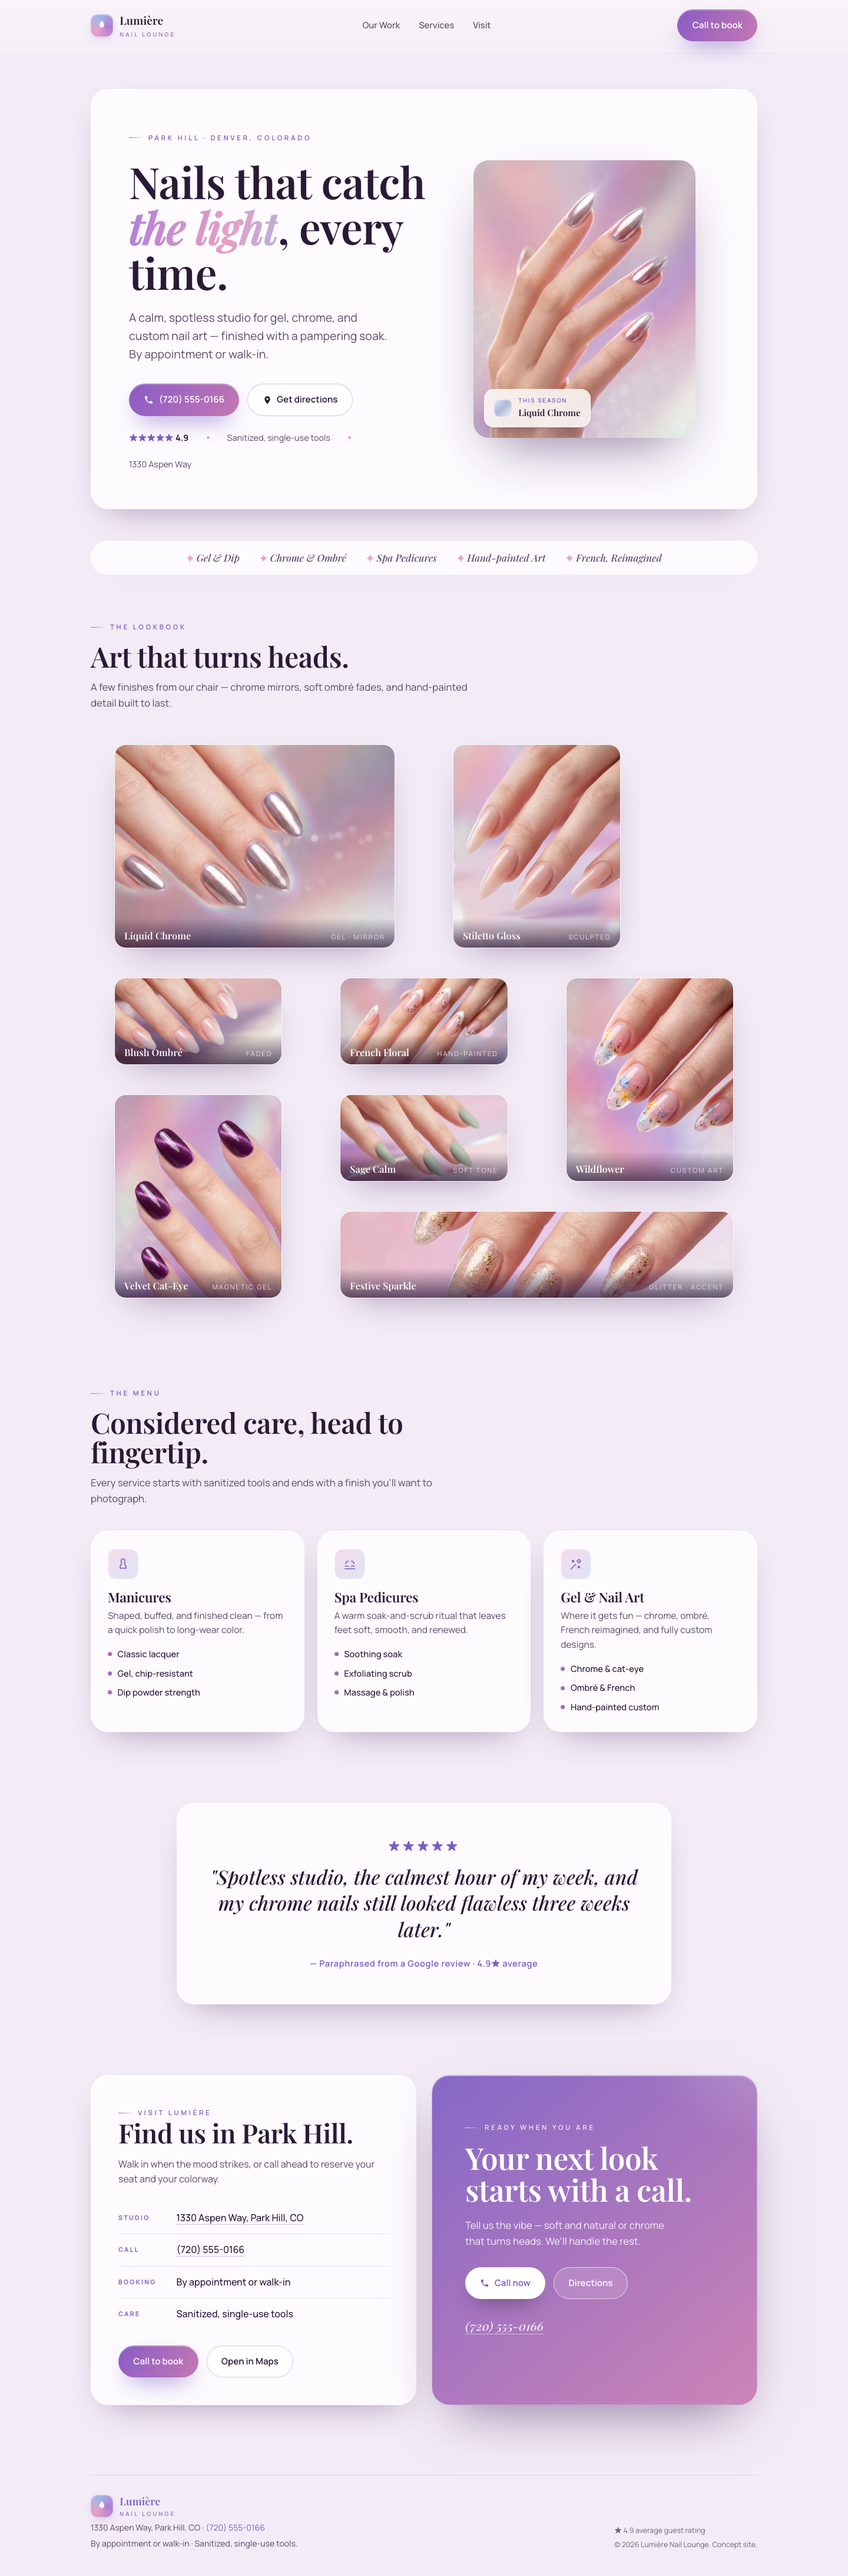
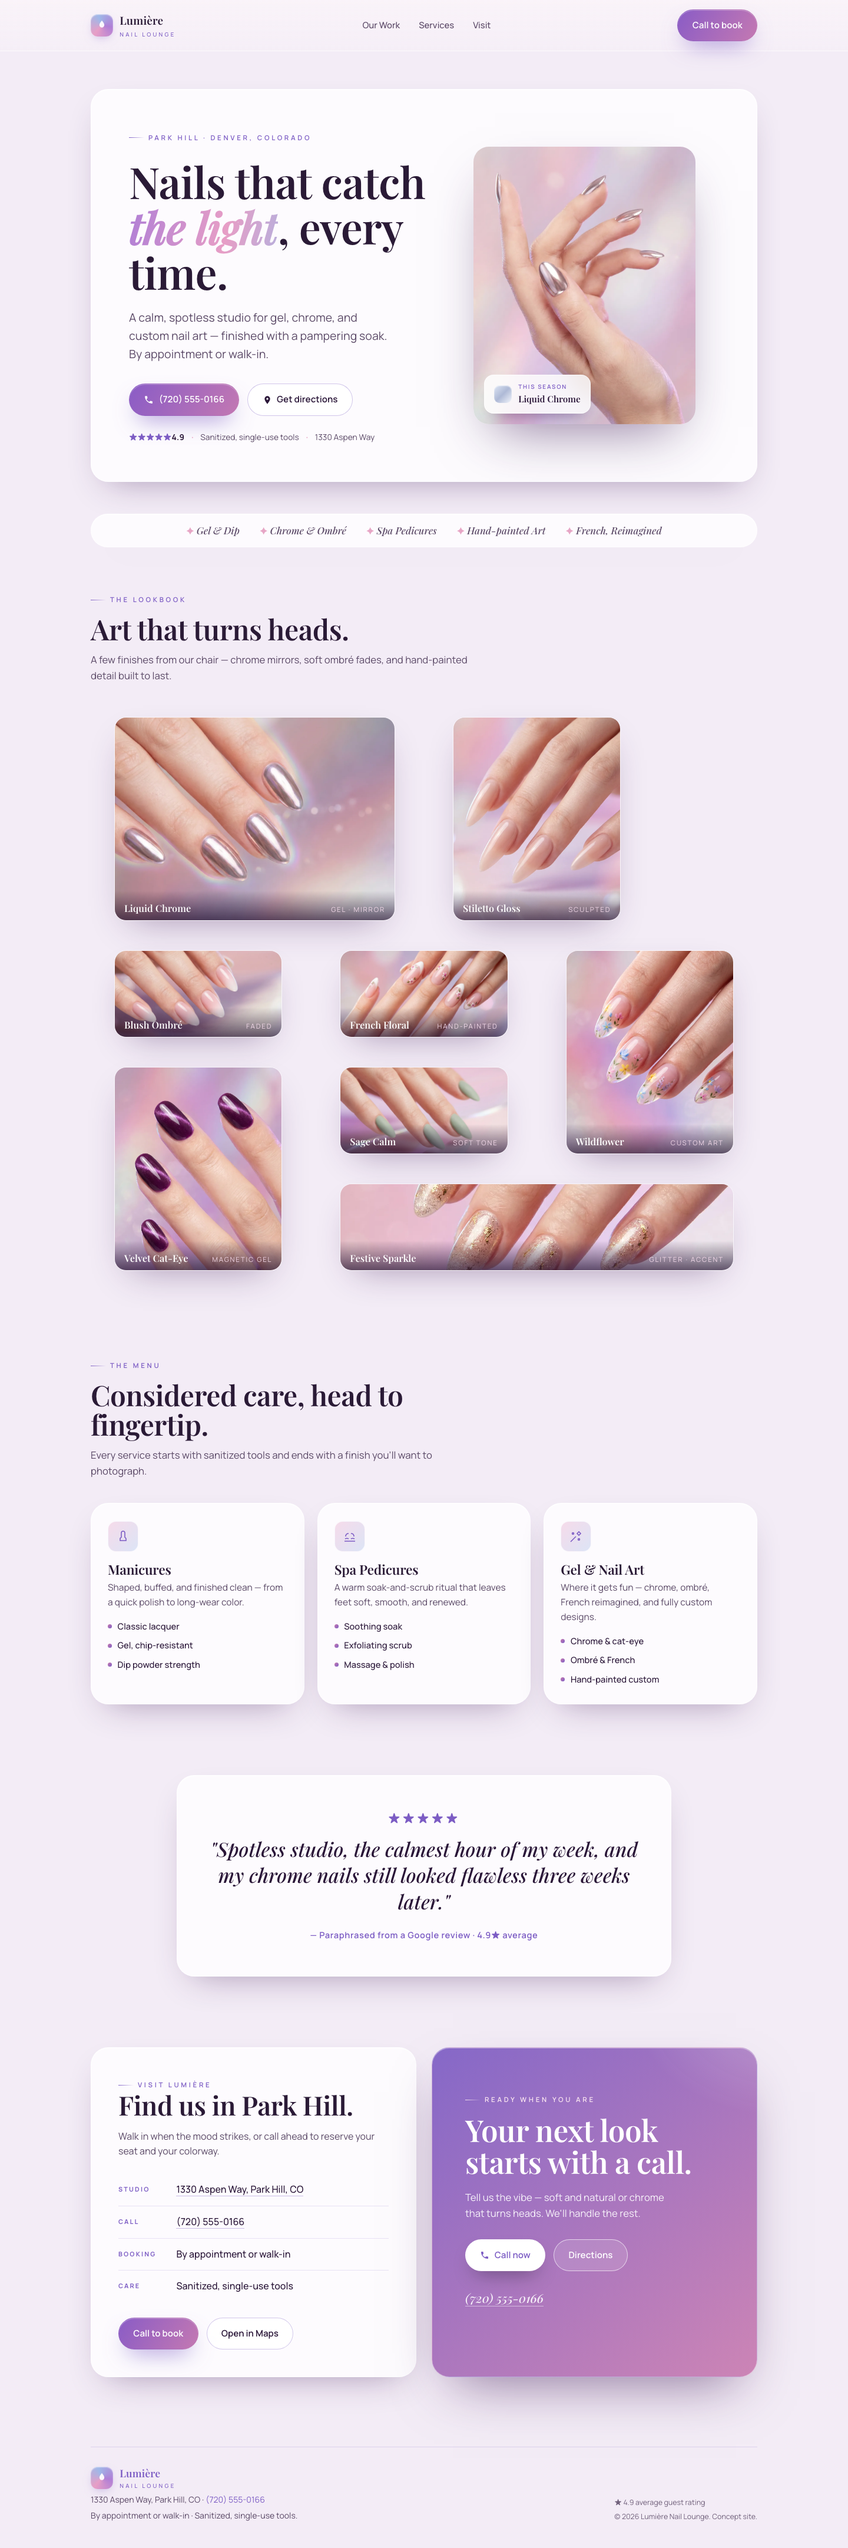
fix(bbw): cleaner Lumière hero meta line + all-5-nails hero image
- Hero meta now fits one line on desktop (tighter pseudo-element separators)
  and stacks cleanly into rows on small screens instead of dangling a dot
  mid-wrap.
- Regenerated the hero image (Nano Banana Pro): an elegant draped-hand pose
  showing all five chrome nails (thumb included) at a flattering angle, vs the
  prior shot that hid the thumb. Refreshed the portfolio thumbnail to match.

diff --git a/products/better-business-web/site/public/work/nails/index.html b/products/better-business-web/site/public/work/nails/index.html
@@ -163,10 +163,16 @@
   .hero h1 em{font-style:italic;}
   .hero p.lede{font-size:clamp(1.02rem,2.2vw,1.22rem); color:var(--text-soft); max-width:38ch; margin:0 0 1.8em;}
   .hero-actions{display:flex; flex-wrap:wrap; gap:14px; margin-bottom:1.6em;}
-  .hero-meta{display:flex; flex-wrap:wrap; gap:22px 30px; align-items:center; font-size:.9rem; color:var(--text-soft);}
+  .hero-meta{display:flex; flex-wrap:wrap; align-items:center; gap:.4em 0; font-size:.86rem; color:var(--text-soft);}
+  .hero-meta > span{display:inline-flex; align-items:center; white-space:nowrap;}
+  .hero-meta > span + span::before{content:"·"; color:var(--rose); font-weight:700; margin-inline:.85em;}
   .hero-meta .stars{color:#7c5cc4; font-weight:700; letter-spacing:.02em;}
   .hero-meta b{color:var(--deep);}
-  .hero-meta .dot{width:5px; height:5px; border-radius:50%; background:var(--rose); display:inline-block;}
+  /* small screens: stack cleanly instead of dangling a separator dot mid-wrap */
+  @media (max-width:520px){
+    .hero-meta{flex-direction:column; align-items:flex-start; gap:.4em;}
+    .hero-meta > span + span::before{display:none;}
+  }
 
   .hero-photo{
     position:relative; border-radius:26px; overflow:hidden; aspect-ratio:4/5;
@@ -367,9 +373,7 @@
               </div>
               <div class="hero-meta">
                 <span class="stars">★★★★★ <b>4.9</b></span>
-                <span class="dot" aria-hidden="true"></span>
                 <span>Sanitized, single-use tools</span>
-                <span class="dot" aria-hidden="true"></span>
                 <span>1330 Aspen Way</span>
               </div>
             </div>
